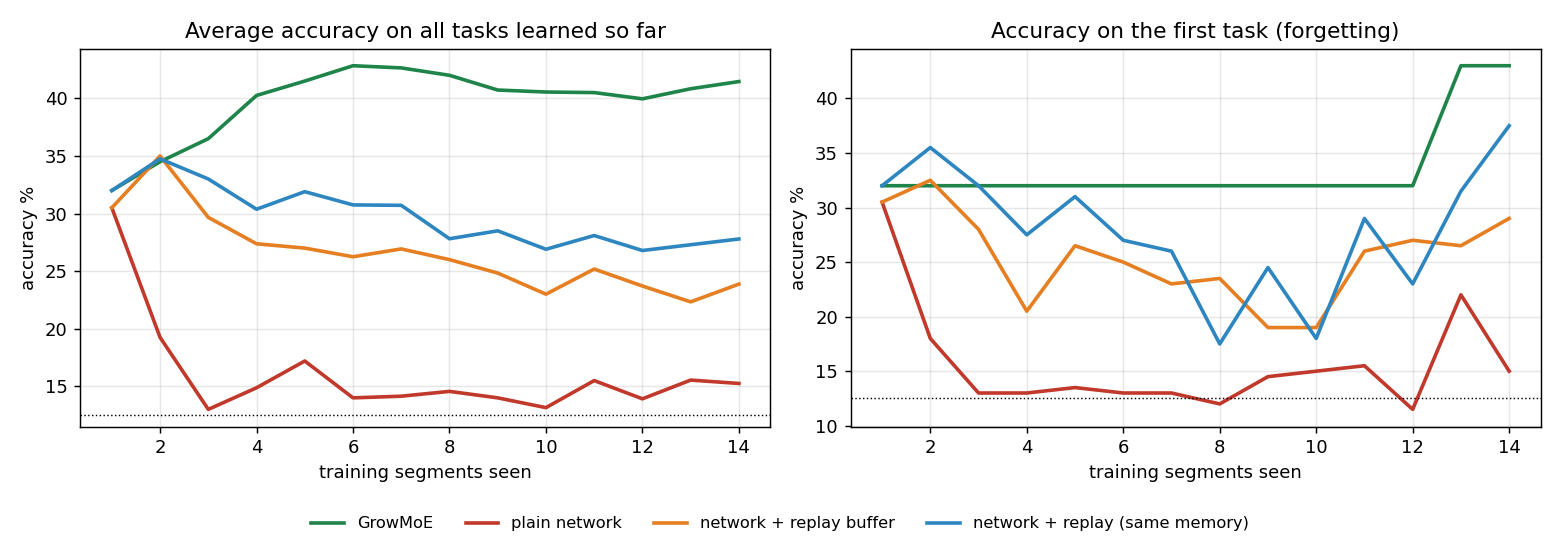
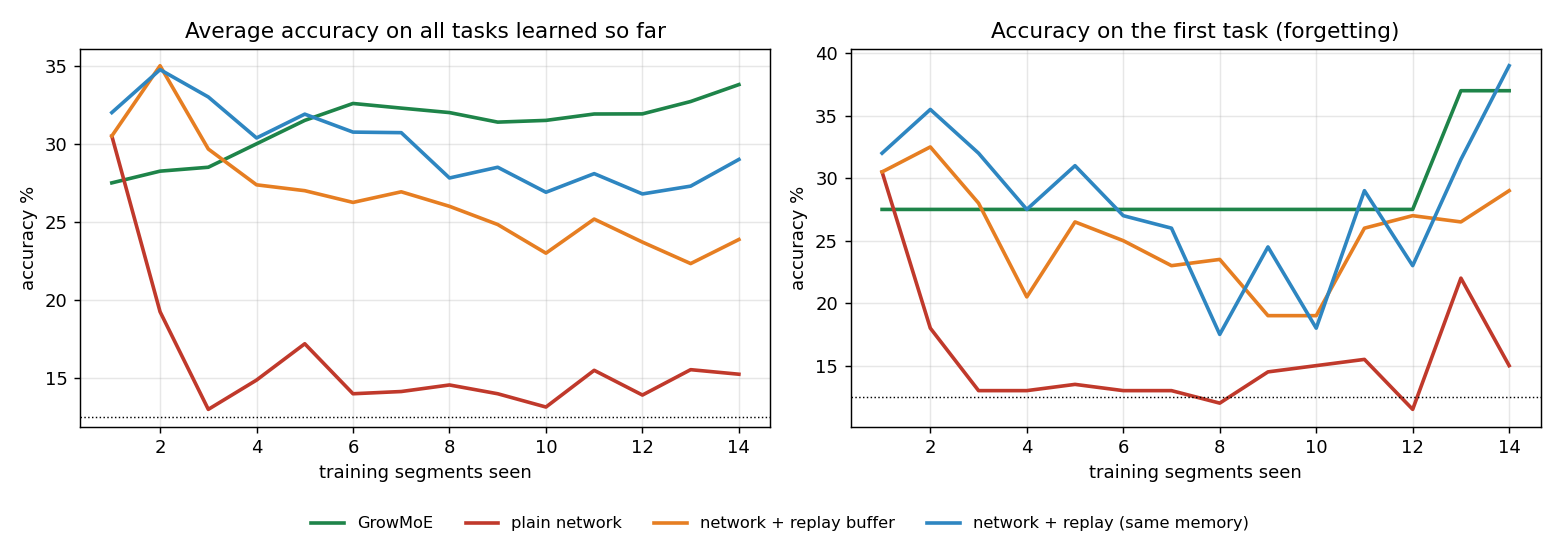
docs(growmoe): demo with its own pool seed and the corrected numbers, handoff and pin notes, audit over all eleven S4-5 units, checks of the review findings
- demos/demo_growmoe_continual_learning.py: the pool seed is the stream seed + 7 (the demo carried the head start of E-035: GrowMoE 42.5 % -> 33.8 % at 12 tasks, margin over the
  same-memory replay network +13.5 -> +4.8); "honest limits" now quote the corrected equal-memory margins (+6 / +9 / +13 at 10 / 30 / 100 tasks) and banking77 with the transfer
  rule (81.8 -> 84.3 %); the usage snippet sets route_rule so that the router is on; the router costs about 2 s per refit at 12 experts (25 of the 31 s of the GrowMoE phase).
- GROWMOE_HANDOFF.md, research/growmoe_results/PRE_STAGE4_PINS.md: what changed, how the old pool is pinned, what was not pinned and why.
- audit_rv2d.py: S4-5 over the eleven units the spec names (the verdict code of the run has ten, review SF-4) and a comparison of the record set with cells_confirm.json (N-4);
  AUDIT_RV2D.md regenerated (every verdict unchanged).
- review_followup_checks.py / REVIEW_FOLLOWUP_CHECKS.md: the review's findings SF-1 to SF-4 recomputed from the 704 records (S3+T+G had no growth event; T+G - T = -1.21 / -1.89
  is the shipped deepening of three seeds; OV-0.3-MIXED holds 5.7 experts; F-30 -0.43 in 13 of 15 seeds; 16 units: 6 of 15 against 15 of 15).

diff --git a/research/growmoe_results/rv2d/review_followup_checks.py b/research/growmoe_results/rv2d/review_followup_checks.py
@@ -1,0 +1,105 @@
+"""Checks of the independent review's findings SF-1 to SF-4 (notebook E-042, 2026-10-21) against the raw confirmatory records. Reads only cells/*.json (phase confirm, the code stamp frozen
+in bars_rv2d.json) and imports no growmoe code, so it keeps working after the defaults changed.
+
+    python review_followup_checks.py            # prints the tables
+    python review_followup_checks.py --write    # also writes REVIEW_FOLLOWUP_CHECKS.md
+
+SF-1  the growth arms: which growth events each arm had, and what S3+T+G minus S3+T is made of (operator-by-operator arithmetic, six seeds)
+SF-2  expert counts against the recorded number of regimes, every unit (OV-0.3-MIXED interleaves pairs of regimes, so it has five sources)
+SF-3  S3+T minus S3 on every unit, the number of seeds below zero (S4-5 as the spec names it: eleven units; the verdict code of the run has ten)
+SF-4  growth from 16 units: seeds that reach 0.9 x the 128-unit pool, S3 against S3+G
+"""
+
+import json
+import math
+import sys
+from collections import Counter, defaultdict
+from pathlib import Path
+
+import numpy as np
+from scipy import stats
+
+HERE = Path(__file__).resolve().parent
+ALL_S3 = ("F-30", "S2-30", "F-15", "OV-0.85", "OV-0.6", "OV-0.3", "OV-0.3-MIXED", "OV-0.0", "S1", "S2-5")
+SETTING = "free-0.01"
+
+
+def load():
+    stamp = json.loads((HERE / "bars_rv2d.json").read_text(encoding="utf-8"))["code_stamp"]
+    by = defaultdict(dict)
+    for f in sorted((HERE / "cells").glob("*.json")):
+        rec = json.loads(f.read_text(encoding="utf-8"))
+        c = rec["cell"]
+        if c["phase"] == "confirm" and rec.get("code_stamp") == stamp:
+            by[(c["family"], c["stream"], c["arm"])][int(c["seed"])] = rec
+    return stamp, by
+
+
+def ci(values):
+    d = np.asarray(values, dtype=float)
+    n, m = d.size, float(d.mean())
+    half = float(stats.t.ppf(0.975, n - 1) * d.std(ddof=1) / math.sqrt(n)) if n > 1 else float("inf")
+    return m, m - half, m + half
+
+
+def events_of(rec):
+    """Growth events of a record as a short string: shipped shadow-trial events carry 'increment', the gap rule's carry 'gap'."""
+    kinds = Counter(("gap-" if "gap" in e else "") + str(e.get("kind")) for e in rec.get("grow_events") or [])
+    return ", ".join(f"{k} x{v}" for k, v in sorted(kinds.items())) or "none"
+
+
+def main():
+    stamp, by = load()
+    off = lambda r: 100.0 * r["router"]["off"]["acc"]                                  # noqa: E731
+    on = lambda r: 100.0 * r["router"][SETTING]["acc"]                                 # noqa: E731
+    out = [f"# Checks of the review findings SF-1 to SF-4 (generated by review_followup_checks.py from the {sum(len(v) for v in by.values())} confirmatory records, stamp {stamp})", ""]
+
+    out += ["## SF-1  growth events by arm, operator-by-operator arithmetic (seeds 85-90)", "", "| arm | " + " | ".join(f"seed {s}" for s in range(85, 91)) + " |", "|---|" + "---|" * 6]
+    for arm in ("S3", "S3+T", "S3+G", "S3+T+G"):
+        recs = by[("arith-seq", "-", arm)]
+        out.append(f"| {arm} | " + " | ".join(f"{events_of(recs[s])} ({recs[s]['params']:,} params)" for s in range(85, 91)) + " |")
+    t, tg = by[("arith-seq", "-", "S3+T")], by[("arith-seq", "-", "S3+T+G")]
+    out += ["", "| seed | T off | T+G off | diff | T on | T+G on | diff | growth events in T |", "|---|---|---|---|---|---|---|---|"]
+    for s in range(85, 91):
+        out.append(f"| {s} | {off(t[s]):.2f} | {off(tg[s]):.2f} | {off(tg[s]) - off(t[s]):+.2f} | {on(t[s]):.2f} | {on(tg[s]):.2f} | {on(tg[s]) - on(t[s]):+.2f} | {events_of(t[s])} |")
+    m0, lo0, hi0 = ci([off(tg[s]) - off(t[s]) for s in range(85, 91)])
+    m1, lo1, hi1 = ci([on(tg[s]) - on(t[s]) for s in range(85, 91)])
+    out += ["", f"S3+T+G minus S3+T: {m0:+.2f} [{lo0:+.2f}, {hi0:+.2f}] without the router, {m1:+.2f} [{lo1:+.2f}, {hi1:+.2f}] with it (six seeds). "
+            f"Growth events in S3+T+G: {sum(len(tg[s].get('grow_events') or []) for s in tg)} in total; the other three seeds (85, 86, 90) have no growth event in S3+T either and agree to the last digit.", ""]
+
+    out += ["## SF-2  experts against the recorded number of regimes (mean over seeds)", "", "| unit | regimes | experts S3 | experts S3+T | S3+T / regimes |", "|---|---|---|---|---|"]
+    for f, s in [("s3", x) for x in ALL_S3] + [("banking", "-")]:
+        a, b = by[(f, s, "S3+T")], by[(f, s, "S3")]
+        reg = float(np.mean([r["regimes"] for r in a.values()]))
+        ea, eb = float(np.mean([r["n_experts"] for r in a.values()])), float(np.mean([r["n_experts"] for r in b.values()]))
+        out.append(f"| {s if f == 's3' else f} | {reg:.0f} | {eb:.2f} | {ea:.2f} | {ea / reg:.2f} |")
+    out += ["", "OV-0.3-MIXED interleaves consecutive pairs of regimes (rv2a/run_rv2a.py::mix_pairs), so it has five sources, not the ten regimes recorded: 5.7 experts is 1.15 x the sources.", ""]
+
+    out += ["## SF-3  S3+T minus S3, router off (the verdict code of the run leaves out OV-0.85)", "", "| unit | mean [95 % interval] | seeds below zero |", "|---|---|---|"]
+    for f, s in [("s3", x) for x in ALL_S3] + [("banking", "-")]:
+        a, b = by[(f, s, "S3+T")], by[(f, s, "S3")]
+        seeds = sorted(set(a) & set(b))
+        d = [off(a[x]) - off(b[x]) for x in seeds]
+        m, lo, hi = ci(d)
+        out.append(f"| {s if f == 's3' else f} | {m:+.3f} [{lo:+.3f}, {hi:+.3f}] | {sum(v < 0 for v in d)} of {len(d)} |")
+    f30 = [off(by[("s3", "F-30", "S3+T")][x]) - off(by[("s3", "F-30", "S3")][x]) for x in range(85, 100)]
+    out += ["", f"F-30 is negative in {sum(v < 0 for v in f30)} of 15 seeds (exact sign test p = {stats.binomtest(sum(v < 0 for v in f30), 15, 0.5).pvalue:.3f}).", ""]
+
+    small, big, gs = by[("arith-mixed16", "-", "S3")], by[("arith-mixed128", "-", "S3")], by[("arith-mixed16", "-", "S3+G")]
+    seeds = sorted(set(small) & set(big) & set(gs))
+    p_s3 = [small[x]["acc"] >= 0.9 * big[x]["acc"] for x in seeds]
+    p_g = [gs[x]["acc"] >= 0.9 * big[x]["acc"] for x in seeds]
+    only_g, only_s3 = sum(1 for a, b in zip(p_s3, p_g) if b and not a), sum(1 for a, b in zip(p_s3, p_g) if a and not b)
+    out += ["## SF-4  growth from 16 units: seeds that reach 0.9 x the 128-unit pool", "",
+            f"S3 (shipped shadow-trial policy): {sum(p_s3)} of {len(seeds)}; S3+G (gap rule): {sum(p_g)} of {len(seeds)}; seeds where only S3+G passes {only_g}, only S3 passes {only_s3}, "
+            f"exact sign test p = {stats.binomtest(only_g, only_g + only_s3, 0.5).pvalue:.3f}." if only_g + only_s3 else "no discordant seeds",
+            "Final widths of S3 at 16 units (units of the first expert, per seed): " + str(sorted(Counter(tuple(small[x]["final_hidden"]) if isinstance(small[x]["final_hidden"], (list, tuple)) else (small[x]["final_hidden"],) for x in seeds).items())), ""]
+    text = "\n".join(out) + "\n"
+    print(text)
+    if "--write" in sys.argv:
+        (HERE / "REVIEW_FOLLOWUP_CHECKS.md").write_text(text, encoding="utf-8", newline="\n")
+        print("wrote", HERE / "REVIEW_FOLLOWUP_CHECKS.md")
+
+
+if __name__ == "__main__":
+    main()

diff --git a/demos/demo_growmoe_continual_learning.py b/demos/demo_growmoe_continual_learning.py
@@ -15,17 +15,22 @@ Use it on your own data (any feature vectors: embeddings, sensor windows, ...; l
 
     from growmoe.config import PhyloCfg
     from growmoe.pools.phylo import PhyloMoE
-    pool = PhyloMoE(PhyloCfg(d=128, n_classes=10, inner_steps=5))     # d = length of your feature vectors
+    pool = PhyloMoE(PhyloCfg(d=128, n_classes=10, inner_steps=5, route_rule="accept_then_logf"))     # d = length of your feature vectors
     for x, y in batches:                                              # x: float tensor (batch, d); y: long tensor (batch,)
         pool.observe(x, y)                                            # learns; adds an expert when the data is new
     out = pool.predict(x_new)                                         # out.probs, out.expert (who answered), out.unknown (True = "nothing like this seen before")
 
-The inputs are normalised inside (only their direction matters).
+The inputs are normalised inside (only their direction matters). Since 2026-10-21 two of the stage-4 repairs are on by default: a spawn-or-extend test that asks the labels, and a learned
+router that picks the expert at answer time. The router needs the routing rule route_rule="accept_then_logf" that every measured pool used, so set it as above. To run the pool as it was
+before stage 4: PhyloCfg(..., **growmoe.config.PRE_STAGE4). The router refits itself when the set of experts changes (about 2 s per refit at 12 experts, most of it one candidate); if the
+tasks never overlap it changes no answer, and router=False saves that time. (Growth of a starved expert from the fit gap, growth_rule="gap", is tested but not the default.)
 
-Honest limits (measured; see research/growmoe_results/shootout and m5): GrowMoE wins when the tasks are DIFFERENT RULES over the input: at the same memory it
-beats a replay network by 14 points on 10 hidden-rule tasks, and a nearest-neighbour lookup fails there. When the tasks are categories that a lookup can recognise
-(real text intents, banking77), GrowMoE with the stage-3 gate is level with a replay network of the same memory (82.3 against 83.4 %, fresh seeds) but a plain kNN
-(86.5 %) is still ahead.
+Honest limits (measured; see research/growmoe_results/shootout, m5 and rv2d): GrowMoE wins when the tasks are DIFFERENT RULES over the input: at the same memory it beats the
+best replay network by 6 points on 10 hidden-rule tasks, 9 on 30 and 13 on 100 (dev seeds, measured before stage 4 became the default; the transfer rule moves this pool by about
+-0.3 points on such streams, fresh seeds), and a nearest-neighbour lookup fails there. This demo gives the pool its own random seed (the stream's seed + 7): with the same seed the expert founded
+for task r would start with task r's own hidden units, a head start worth about 8 points that an earlier version of this demo included. When the tasks are categories that a lookup
+can recognise (real text intents, banking77), GrowMoE with the stage-3 gate is level with a replay network of the same memory (82.3 against 83.4 %, fresh seeds) and a plain kNN
+(86.5 %) is ahead; the transfer rule lifts the pool from 81.8 to 84.3 % on five other fresh seeds, which closes some of that gap (the replay and kNN numbers are from the earlier seeds).
 """
 
 import argparse
@@ -87,7 +92,7 @@ def main():
 
     results, pools = {}, {}
     results["GrowMoE"], pools["GrowMoE"] = train("GrowMoE", lambda: PhyloMoE(PhyloCfg(
-        seed=seed, d=st.d, n_classes=st.n_classes, inner_steps=5, q=0.02, alpha_spawn=0.01, m_min=32, route_rule="accept_then_logf", gate_shortlist_min_experts=2)))
+        seed=seed + 7, d=st.d, n_classes=st.n_classes, inner_steps=5, q=0.02, alpha_spawn=0.01, m_min=32, route_rule="accept_then_logf", gate_shortlist_min_experts=2)))      # seed + 7: not the stream's seed (E-035)
     budget = results["GrowMoE"].report.memory_bytes                              # the fair comparison gets exactly GrowMoE's bytes
     width = 2048
     buffer = max(512, min(samples, int((budget - 4 * MLPExpert(st.d, width, 1, st.n_classes).num_params()) // (4 * st.d))))

diff --git a/research/growmoe_results/rv2d/audit_rv2d.py b/research/growmoe_results/rv2d/audit_rv2d.py
@@ -7,6 +7,9 @@ written, compares every verdict with verdicts_rv2d.json.
     python audit_rv2d.py --write                                 # also writes AUDIT_RV2D.md (confirm) or AUDIT_RV2D_DEV.md (dev)
 
 S4-9 (golden) is not recomputed here: it needs `python research/growmoe_results/rv2c/golden.py check` (about six minutes); the audit reports the value stored in the verdicts file.
+
+Since the independent review (E-042, 2026-10-21) the audit (1) reads S4-5 over all eleven units the spec names ("each other stream and banking77": the ten stage-3 streams and banking77;
+the verdict code of the run, growmoe/verdicts_rv4.py, uses ten and leaves out OV-0.85, review finding SF-4; the verdict is the same) and (2) compares the record set with cells_confirm.json.
 """
 
 import argparse
@@ -109,8 +112,9 @@ def audit(R: Records, setting: str, bars: dict) -> dict:
                        "pass": bool(d[1] >= bars["S4_4_gain"] and forget <= bars["S4_4_forgetting"] and few <= bars["S4_4_seeds_below_allowed"]), "bar": "gain >= +5, forgetting <= 9, at most 1 seed with < 5 experts"}
 
     # S4-5 (amendment A4-1): accuracy and expert count of S3+T on every other stream, experts against the number of true functions
+    units5 = [("s3", s) for s in ALL_S3] + [("banking", "-")]                        # all eleven: OV-0.85 is S4-2's target, not S4-5's exception (review SF-4)
     rows, complete = [], True
-    for f, s in units:
+    for f, s in units5:
         a, b = R.get(f, s, "S3+T"), R.get(f, s, "S3")
         d = paired(a, b, acc, acc)
         if d is None:
@@ -126,7 +130,7 @@ def audit(R: Records, setting: str, bars: dict) -> dict:
     else:
         good = all(m >= bars["S4_5_gain"] and r <= bars["S4_5_ratio"] for _, m, r, _ in rows)
         worst_m, worst_r = min(m for _, m, _, _ in rows), max(r for _, _, r, _ in rows)
-        out["S4-5"] = {"value": f"worst accuracy mean {worst_m:+.2f}, largest expert ratio {worst_r:.2f}, {len(rows)}/{len(units)} units", "pass": bool(good) if complete else None,
+        out["S4-5"] = {"value": f"worst accuracy mean {worst_m:+.2f}, largest expert ratio {worst_r:.2f}, {len(rows)}/{len(units5)} units", "pass": bool(good) if complete else None,
                        "bar": "every mean >= -0.5 and experts <= 1.2 x true functions (A4-1)"}
 
     # S4-6: growth from 16 units reaches 90 % of the fixed 128-unit expert in enough seeds, width in the band, forward cost small
@@ -190,6 +194,11 @@ def main() -> int:
         folder, phase, seeds = HERE / "cells", "confirm", set(range(85, 100))
         stamp, reported_name, out_name = bars_file["code_stamp"], "verdicts_rv2d.json", "AUDIT_RV2D.md"
     R = Records(folder, phase, seeds, stamp)
+    if not a.dry_run_dev:                                                                  # the record set must be exactly the cells that were listed before the run (review N-4)
+        listed = {tuple(sorted(c.items())) for c in json.loads((HERE / "cells_confirm.json").read_text(encoding="utf-8"))}
+        found = {tuple(sorted(rec["cell"].items())) for recs in R.by.values() for rec in recs.values()}
+        R.problems += [f"cell listed in cells_confirm.json but without a record: {dict(c)}" for c in sorted(listed - found)[:10]]
+        R.problems += [f"record that cells_confirm.json does not list: {dict(c)}" for c in sorted(found - listed)[:10]]
     res = audit(R, setting, bars)
     lines = [f"# Independent audit of the RV2-D verdicts ({'DRY RUN on the dev records' if a.dry_run_dev else 'confirmatory records'})\n",
              f"Records read: {R.n} of phase {phase} with the code stamp {stamp}; integrity problems: {len(R.problems)}.\n"]

diff --git a/docs/superpowers/handoff/GROWMOE_HANDOFF.md b/docs/superpowers/handoff/GROWMOE_HANDOFF.md
@@ -163,7 +163,7 @@ real clusters. Add to `PhyloCfg` (units in comments; all are STARTING values to 
 recent stream a regime must make up; probation TTL = ceil(m_min / min_share) samples), `min_neighbors=4`, `edge_null=0.5`, `pool_cap=512`, `probe_steps=60`,
 `probe_min_affinity=0.05`, `init_mode="shrink_perturb"` (`"scratch"|"clone"|"inherit"`), `rho_max=0.75`, `inherit_sigma=0.05`, `infant_calls=5`,
 `infant_lr_mult=2.0`, `infant_relax=4.0`, `dormant_after=400`, `archive_after=800` (calls), `merge_every=50`, `delta_merge=0.02` (accuracy), `merge_overlap=0.2`,
-`max_experts=256` (**stage 4.1, 2026-10-16**: a full pool follows `cap_policy`, default `"share"` = the cluster joins the nearest expert and the pool says so once; `"drop"` is the old silent behaviour, pinned in the historical baselines such as the M5 single network; `sig_dedupe=False` is an OFF switch for the twice-counted founding cluster, notebook E-037), `agem=False`, `competence=True`, `monitor_alpha=0.01`, `monitor_warmup=50`, `arm_monitor_after_infancy=True` (**added in M2-A, ON by default since 2026-10-10**: see 13f/13g below), `batch_vote=True`, `batch_vote_share=0.5`, `batch_vote_min=8` (**added in RV2-A, ON by default since 2026-10-12**: see 13k below), `grow=True`.
+`max_experts=256` (**stage 4.1, 2026-10-16**: a full pool follows `cap_policy`, default `"share"` = the cluster joins the nearest expert and the pool says so once; `"drop"` is the old silent behaviour, pinned in the historical baselines such as the M5 single network; `sig_dedupe=False` is an OFF switch for the twice-counted founding cluster, notebook E-037), `agem=False`, `competence=True`, `monitor_alpha=0.01`, `monitor_warmup=50`, `arm_monitor_after_infancy=True` (**added in M2-A, ON by default since 2026-10-10**: see 13f/13g below), `batch_vote=True`, `batch_vote_share=0.5`, `batch_vote_min=8` (**added in RV2-A, ON by default since 2026-10-12**: see 13k below), `grow=True`, and the stage-4 repairs `router=None` (resolved in `__post_init__`: **on with a fast `route_rule`, off with the router-blind reference path `route_rule="default"`**), `router_mode="free"` and `spawn_rule="transfer"` (**added in stage 4, ON by default since 2026-10-21**: pre-registered run RV2-D, notebook E-041, independent review E-042, adoption E-043), and `growth_rule="probe"`, `grow_gap=0.17` (growth from the fit gap, `"gap"`, passed its pre-registered statements but is NOT the default: it replaces the widen-and-deepen policy of R6, see E-042); `from growmoe.config import PRE_STAGE4` and `PhyloCfg(**PRE_STAGE4)` run the pool as it was before: no router, the 13e interference probe, the shadow-trial growth of R6.
 Tests: 200 random unit vectors (d=128) -> no cluster; one vMF burst (kappa 60, 40 points) among 200 random outliers -> exactly one cluster holding >= 90 % of the burst and
 <= 2 outliers; two bursts around orthogonal centres -> two clusters; a burst of 20 (< m_min) -> none; TTL expiry and capacity eviction; `tau` ~ 0.27 +- 0.01 for (128, 512),
 decreasing in d, and Monte-Carlo mean degree of random vectors at `tau` within [0.3, 0.8].
@@ -196,7 +196,8 @@ Build small toy streams from `streams.s6_long(seed, n_regimes=k, d=64, n_train=.
   `child = init(parent, aff)` and `shadow = parent.module.clone()`; give both fresh Adam optimisers; for `probe_steps` steps feed the SAME cluster batches to both (shadow batches mixed
   50/50 with R_fit). Then `d_old = L(R_probe; shadow) - L(R_probe; parent)` and `gap = L(cluster; shadow) - L(cluster; child)` (mean cross-entropy, nats).
   **Extend iff `d_old <= delta_forget` and `gap <= delta_forget`**; else spawn and KEEP the already-trained `child`. Extend = copy the shadow's weights into the parent, add the cluster to the
-  parent's signature and replay, log `extend{d_old, gap}`. Unlabeled -> no probe, spawn. Tests: an aligned task (new cluster the parent already solves) -> extend; a conflicting task (same inputs region,
+  parent's signature and replay, log `extend{d_old, gap}`. Unlabeled -> no probe, spawn. **Stage-4 addendum (2026-10-21):** the probe is the spawn rule only with `spawn_rule="probe"` (`PRE_STAGE4`); the default is now `spawn_rule="transfer"`
+  (a held-out loss test of the best expert against its own reference, `growmoe/transfer.py`), which founds the true number of experts where the probe under-spawns (E-041). Tests: an aligned task (new cluster the parent already solves) -> extend; a conflicting task (same inputs region,
   permuted labels) -> spawn; the extended parent's loss on its held-out replay rises by <= `delta_forget` + noise tolerance; changing `delta_forget` flips the decision on a constructed borderline case.
 * **13f.** Infants (`infant_calls` observe calls after birth) use `infant_relax` in the gate and `infant_lr_mult`; then become `active` with `lr_mult = 1`. Test: a regime that arrives as 5
   consecutive class-clusters (high mutual affinity) does **not** spawn 5 experts (the probe extends the infant).
@@ -222,7 +223,7 @@ Build small toy streams from `streams.s6_long(seed, n_regimes=k, d=64, n_train=.
 ### R6 - Task 14 growth inside A
 Per expert keep a loss history and ONE `GrowthPolicy`. When `plateau(loss_hist)` holds, the expert is active (not infant) and has >= 128 replay samples: split its replay 80/20 (seeded), call
 `policy.step`; on commit rebuild the optimiser (keep `lr_mult`), log `grow{..., vs_status}`; clear the history after every check. Tests: a single-regime S5-style stream grows only while held-out loss improves;
-final parameters <= 2x the smallest sufficient fixed expert; `grow` events carry the gain statistics; never grows on a data-limited regime (60-sample replay). **Measure and report how often the policy fires with
+final parameters <= 2x the smallest sufficient fixed expert; `grow` events carry the gain statistics; never grows on a data-limited regime (60-sample replay). **Stage-4 note (2026-10-21):** `growth_rule="gap"` (widen when the within-batch fit gap is below `grow_gap` = 0.17 and progress has stalled, with a guard window and a revert, `growmoe/gapgrow.py`) is available and passed its pre-registered statements (E-041), but it is not the default: it REPLACES this policy, so it never deepens, and on operator-by-operator arithmetic the shipped deepening is worth 1.2 to 1.9 points (not significant with six seeds; E-042). It rescues a 16-unit expert in 15 of 15 seeds where this policy does in 6 of 15, and costs about half the growth compute. The user decides its default. **Measure and report how often the policy fires with
 `replay_size=256` versus a larger buffer** (power warning in section 5) and propose a justified per-expert buffer size for growth-eligible experts.
 
 ### R7 - Task 15 architecture B (`growmoe/pools/bnp.py`, `BNPCfg(CommonCfg)` with `alpha_dp, tau_b, n_stm, vae_steps, vae_lr`)

diff --git a/research/growmoe_results/PRE_STAGE4_PINS.md b/research/growmoe_results/PRE_STAGE4_PINS.md
@@ -1,0 +1,38 @@
+# Pre-stage-4 pins (2026-10-21)
+
+Since 2026-10-21 (notebook E-043, decision D-38) `PhyloCfg` has two of the three stage-4 repairs on by default: the router (`router`, with `router_mode="free"`) and the transfer
+spawn rule (`spawn_rule="transfer"`). The third, growth from the fit gap (`growth_rule="gap"`, `grow_gap=0.17`), passed its pre-registered statements too but is NOT the default: the
+independent review (E-042) found that it replaces the shipped widen-and-deepen policy, and the user decides it. The run is RV2-D (E-041, all nine statements PASS).
+
+Everything recorded before that day was produced by the pool without these repairs. So that those numbers can still be reproduced, every script and test that produced or reproduces a
+recorded result of an earlier stage pins the old pool.
+
+## What the pin is
+- `from growmoe.config import PRE_STAGE4` is `{"router": False, "spawn_rule": "probe", "growth_rule": "probe"}`; `PhyloCfg(**PRE_STAGE4, ...)` is the pool of Phase 1 to stage 4.1. It lists all
+  three switches although `growth_rule` is still "probe" by default, so that nothing has to be touched again if the user decides to make growth from the gap the default.
+- The router follows the routing rule: it is on whenever `route_rule` is a fast rule (`accept_then_logf` and the others that every measured pool used) and off with the reference path
+  `route_rule="default"`, which applies the supersede filter and is router-blind. `router=True` with `route_rule="default"` is refused. A bare `PhyloCfg()` therefore has the transfer
+  rule but not the router; set `route_rule="accept_then_logf"` to get both.
+
+## Where it is written
+- Scripts: the three keywords are written out at the `PhyloCfg(...)` call (39 calls, 32 files under `research/`), or once in the shared settings that many scripts import:
+  `m0/run_m0.py::A_KW` (also used by `m2a`, `rv2a` and the `m0/diagnose_*` scripts), `rv2b/run_rv2b.py::BASE`, `rv2c/run_rv2c.py::BASE`, `rv2c/golden.py::BASE` (already pinned for
+  the earlier switches), `growmoe/bench.py::_phase1_cfg` (so `python -m growmoe.bench --phase 1` still reproduces `phase1/`), `arith/arith_lib.py::Pool._new` (keywords passed by the
+  caller still win).
+- The RV2-D runner: `rv2d/rv2d_lib.py::arm_flags` starts from `PRE_STAGE4`, so the arm `S3` stays "stage 3 without stage 4" and each other arm lists only what it turns on.
+- Tests: the tests that describe the old rules (the interference probe, the shadow-trial growth, the stage-3 fingerprints recorded before stage 4, the router-blind reference loop)
+  pass `**PRE_STAGE4` or the single keyword they need; `tests/growmoe/test_gm_adopt_stage4.py` and `test_gm_rv4_config.py` pin the new defaults.
+
+## Not pinned, on purpose
+- `scratch/`: throwaway scripts of R11-R12 that no notebook entry cites.
+- `demos/` and the library: they follow the defaults (the GrowMoE demo was re-run with them, E-043).
+- Text of earlier entries and reports: each result was measured with the pool of its time, and says so.
+
+## The confirmatory run is closed
+The 704 records of RV2-D (seeds 85-99) carry the code stamp `ff3438232c5f0dfa`. The adoption changes `growmoe/config.py`, so the stamp of today differs and the queue would read
+those cells as missing and run them again. `rv2d/CONFIRM_CLOSED.json` stops that: `jobqueue.py` refuses to start the phase `confirm` and reads its status at the recorded stamp.
+`python report_rv2d.py confirm` still regenerates `RESULTS_RV2D.md` and `verdicts_rv2d.json` from the records, unchanged (checked on 2026-10-21).
+
+## Checked at the adoption
+`golden.py check` bit-identical (the flag-off pool is unchanged); `python -m pytest tests/growmoe` green; the smoke phase of the RV2-D runner (6 cells: arithmetic, banking77 and
+function-regime streams) runs end to end; the GrowMoE demo runs with the new defaults.

diff --git a/research/growmoe_results/rv2d/REVIEW_FOLLOWUP_CHECKS.md b/research/growmoe_results/rv2d/REVIEW_FOLLOWUP_CHECKS.md
@@ -1,0 +1,63 @@
+# Checks of the review findings SF-1 to SF-4 (generated by review_followup_checks.py from the 704 confirmatory records, stamp ff3438232c5f0dfa)
+
+## SF-1  growth events by arm, operator-by-operator arithmetic (seeds 85-90)
+
+| arm | seed 85 | seed 86 | seed 87 | seed 88 | seed 89 | seed 90 |
+|---|---|---|---|---|---|---|
+| S3 | deepen x1 (800,828 params) | none (535,088 params) | widen x1 (798,256 params) | deepen x1 (797,220 params) | deepen x3, widen x1 (2,112,024 params) | none (535,088 params) |
+| S3+T | none (802,632 params) | none (802,632 params) | deepen x2 (1,330,504 params) | deepen x2 (1,726,408 params) | deepen x3, widen x1 (3,700,552 params) | none (802,632 params) |
+| S3+G | gap-widen x1 (796,068 params) | none (535,088 params) | none (535,088 params) | gap-widen x1 (666,672 params) | gap-widen x1 (532,900 params) | gap-widen x1 (796,068 params) |
+| S3+T+G | none (802,632 params) | none (802,632 params) | none (802,632 params) | none (802,632 params) | none (802,632 params) | none (802,632 params) |
+
+| seed | T off | T+G off | diff | T on | T+G on | diff | growth events in T |
+|---|---|---|---|---|---|---|---|
+| 85 | 33.98 | 33.98 | +0.00 | 46.65 | 46.65 | +0.00 | none |
+| 86 | 34.47 | 34.47 | +0.00 | 46.62 | 46.62 | +0.00 | none |
+| 87 | 34.92 | 34.77 | -0.15 | 46.53 | 46.26 | -0.27 | deepen x2 |
+| 88 | 37.46 | 33.97 | -3.49 | 52.38 | 46.99 | -5.39 | deepen x2 |
+| 89 | 37.96 | 34.31 | -3.65 | 51.67 | 46.02 | -5.66 | deepen x3, widen x1 |
+| 90 | 35.22 | 35.22 | +0.00 | 46.98 | 46.98 | +0.00 | none |
+
+S3+T+G minus S3+T: -1.21 [-3.13, +0.70] without the router, -1.89 [-4.85, +1.08] with it (six seeds). Growth events in S3+T+G: 0 in total; the other three seeds (85, 86, 90) have no growth event in S3+T either and agree to the last digit.
+
+## SF-2  experts against the recorded number of regimes (mean over seeds)
+
+| unit | regimes | experts S3 | experts S3+T | S3+T / regimes |
+|---|---|---|---|---|
+| F-30 | 30 | 30.20 | 30.00 | 1.00 |
+| S2-30 | 30 | 20.00 | 30.00 | 1.00 |
+| F-15 | 15 | 15.13 | 15.00 | 1.00 |
+| OV-0.85 | 10 | 10.27 | 10.00 | 1.00 |
+| OV-0.6 | 10 | 10.27 | 10.07 | 1.01 |
+| OV-0.3 | 10 | 10.27 | 10.07 | 1.01 |
+| OV-0.3-MIXED | 10 | 5.80 | 5.73 | 0.57 |
+| OV-0.0 | 10 | 10.13 | 10.00 | 1.00 |
+| S1 | 7 | 4.80 | 7.47 | 1.07 |
+| S2-5 | 5 | 3.20 | 5.00 | 1.00 |
+| banking | 6 | 4.20 | 6.00 | 1.00 |
+
+OV-0.3-MIXED interleaves consecutive pairs of regimes (rv2a/run_rv2a.py::mix_pairs), so it has five sources, not the ten regimes recorded: 5.7 experts is 1.15 x the sources.
+
+## SF-3  S3+T minus S3, router off (the verdict code of the run leaves out OV-0.85)
+
+| unit | mean [95 % interval] | seeds below zero |
+|---|---|---|
+| F-30 | -0.431 [-0.663, -0.199] | 13 of 15 |
+| S2-30 | +2.927 [+2.184, +3.669] | 0 of 15 |
+| F-15 | -0.339 [-0.740, +0.062] | 10 of 15 |
+| OV-0.85 | -0.278 [-0.624, +0.067] | 11 of 15 |
+| OV-0.6 | +0.622 [-0.172, +1.416] | 7 of 15 |
+| OV-0.3 | +0.210 [-0.525, +0.945] | 6 of 15 |
+| OV-0.3-MIXED | +0.055 [-0.892, +1.002] | 5 of 15 |
+| OV-0.0 | -0.055 [-0.518, +0.408] | 9 of 15 |
+| S1 | +0.952 [-0.506, +2.411] | 6 of 15 |
+| S2-5 | +1.813 [+0.451, +3.176] | 4 of 15 |
+| banking | +2.567 [+1.036, +4.097] | 0 of 5 |
+
+F-30 is negative in 13 of 15 seeds (exact sign test p = 0.007).
+
+## SF-4  growth from 16 units: seeds that reach 0.9 x the 128-unit pool
+
+S3 (shipped shadow-trial policy): 6 of 15; S3+G (gap rule): 15 of 15; seeds where only S3+G passes 9, only S3 passes 0, exact sign test p = 0.004.
+Final widths of S3 at 16 units (units of the first expert, per seed): [((16, 64), 1), ((24,), 1), ((64,), 7), ((256,), 6)]
+

diff --git a/research/growmoe_results/rv2d/AUDIT_RV2D.md b/research/growmoe_results/rv2d/AUDIT_RV2D.md
@@ -9,7 +9,7 @@ Records read: 704 of phase confirm with the code stamp ff3438232c5f0dfa; integri
 | S4-2 | +10.11 [+9.61, +10.60] n=15 | lower bound >= +4.0 | PASS |
 | S4-3 | worst guard mean +0.00 over 10/10 units | every mean >= -0.5 | PASS |
 | S4-4 | gain +6.14 (n=6), forgetting 7.39, seeds with < 5 experts 0 | gain >= +5, forgetting <= 9, at most 1 seed with < 5 experts | PASS |
-| S4-5 | worst accuracy mean -0.43, largest expert ratio 1.07, 10/10 units | every mean >= -0.5 and experts <= 1.2 x true functions (A4-1) | PASS |
+| S4-5 | worst accuracy mean -0.43, largest expert ratio 1.07, 11/11 units | every mean >= -0.5 and experts <= 1.2 x true functions (A4-1) | PASS |
 | S4-6 | 15/15 seeds reach 0.9 (need 13), width 124, extra forward 3.33 % | >= 13 of 15 seeds reach 0.9, width in [64, 256], extra forward <= 5 % | PASS |
 | S4-7 | worst mean +0.00, most growth events per run 0.00, largest parameter increase +0.0 %, 11/11 units | every mean >= -0.5, growth events per run <= 1, parameters <= +25 % | PASS |
 | S4-8 | exact match 46.59 (n=6), forgetting 7.08 | exact match >= 44, forgetting <= 8 | PASS |
